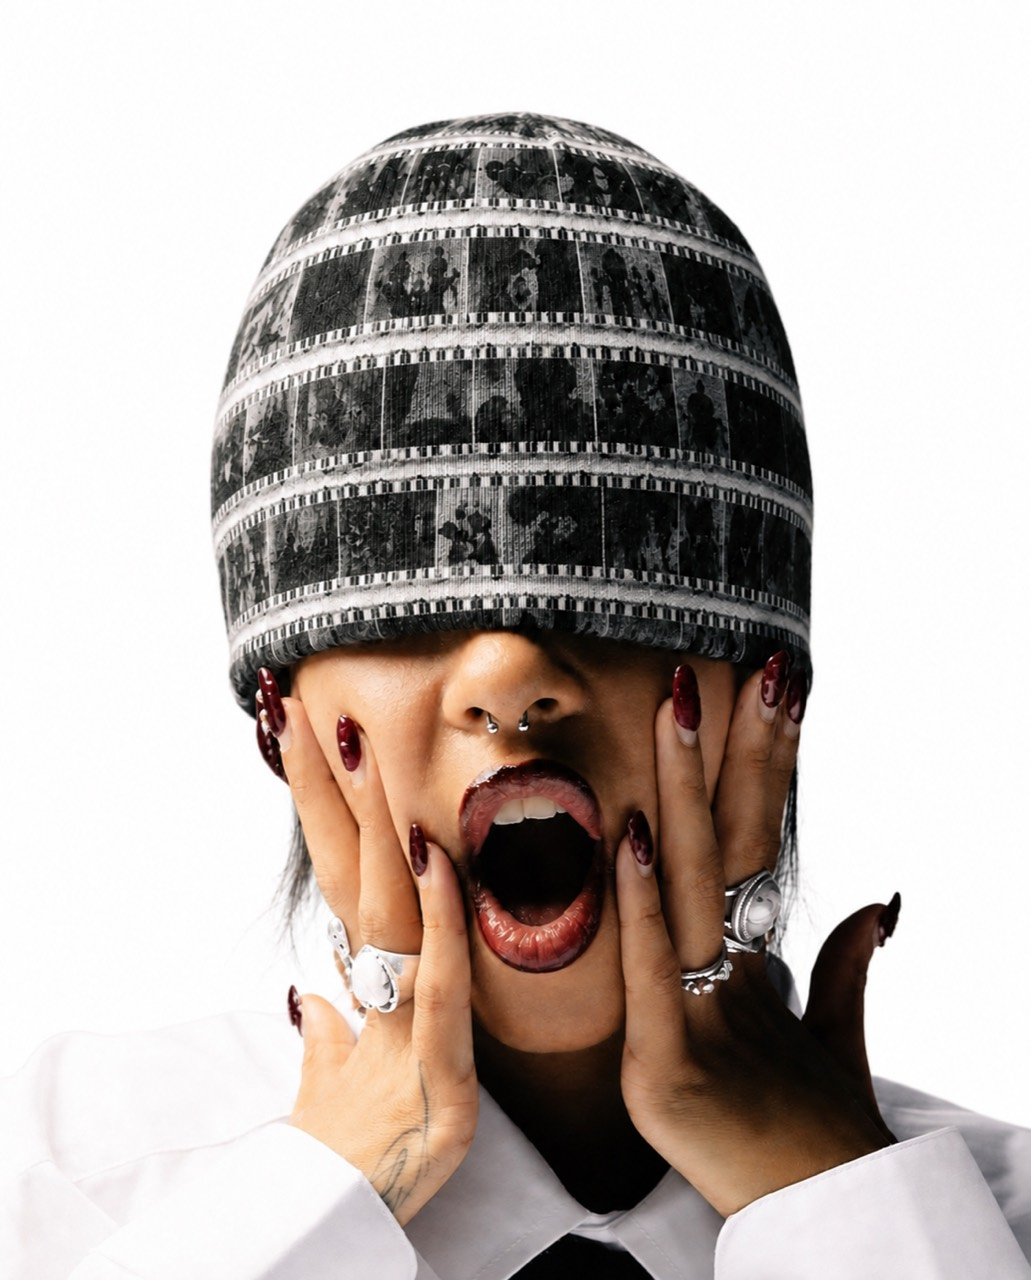
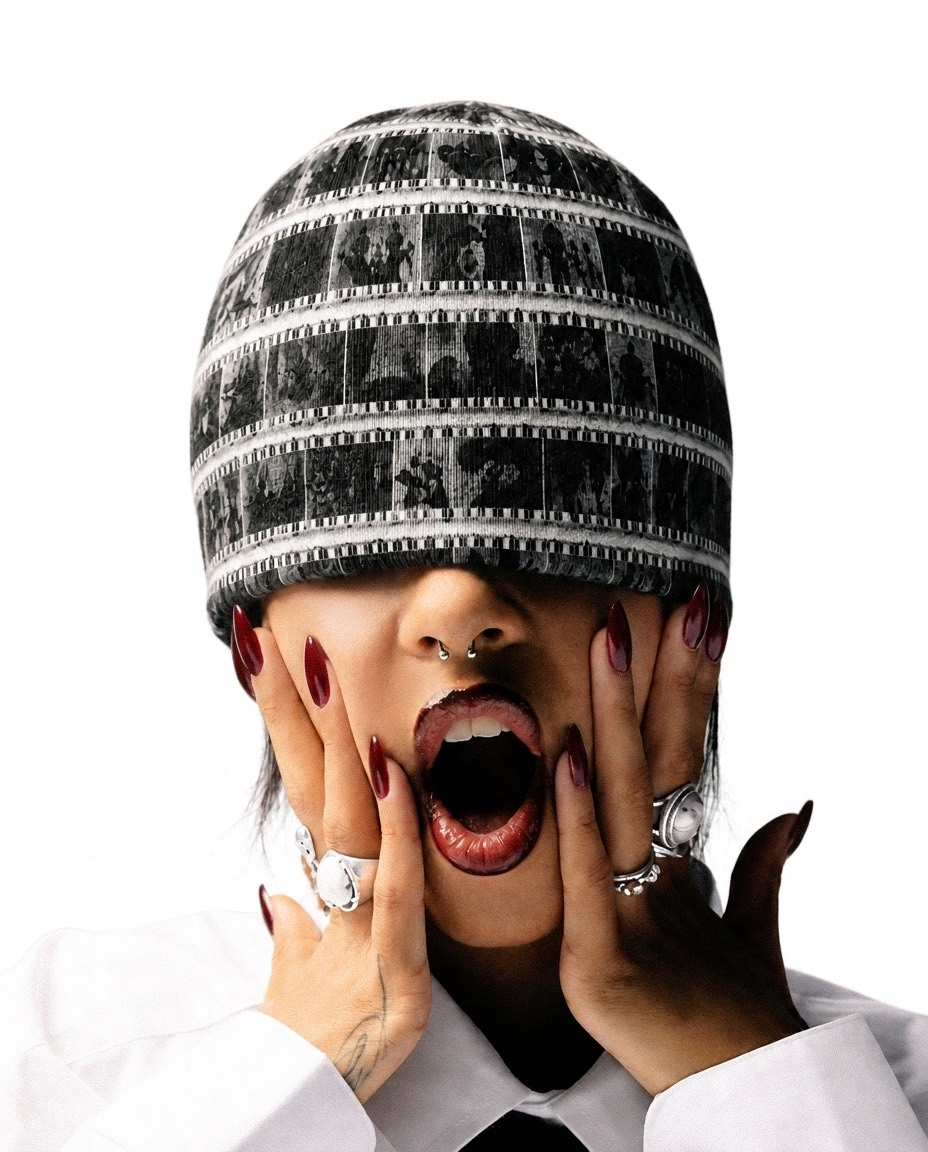
Upgrade shared Skull Cap campaign image

diff --git a/src/routes/projects.no-comply.media.tsx b/src/routes/projects.no-comply.media.tsx
@@ -22,13 +22,13 @@ import cof01 from "../assets/no-comply/caught-on-film/cof-01-trim.png.asset.json
 import cof02 from "../assets/no-comply/caught-on-film/cof-02.png.asset.json";
 import cof03 from "../assets/no-comply/caught-on-film/cof-03.png.asset.json";
 import cof04 from "../assets/no-comply/caught-on-film/cof-04.png.asset.json";
-import cof05 from "../assets/no-comply/caught-on-film/cof-05.png.asset.json";
 import cof06 from "../assets/no-comply/caught-on-film/cof-06.png.asset.json";
 import cof07 from "../assets/no-comply/caught-on-film/cof-07.png.asset.json";
 import cof08 from "../assets/no-comply/caught-on-film/cof-08.png.asset.json";
 import cof09 from "../assets/no-comply/caught-on-film/cof-09.png.asset.json";
 import cof10 from "../assets/no-comply/caught-on-film/cof-10.png.asset.json";
 import cof11 from "../assets/no-comply/caught-on-film/cof-11.png.asset.json";
+import onFilmSkullCapModel1 from "../assets/products/caught-on-film/on-film-skull-cap/black-white/model-1.jpg";
 import { EditorialPageShell } from "@/components/no-comply/editorial-page-shell";
 
 type MediaCollection = "command" | "caught-on-film";
@@ -100,7 +100,7 @@ const media: {
     collection: "caught-on-film",
   },
   {
-    src: cof05.url,
+    src: onFilmSkullCapModel1,
     alt: "Portrait in film-strip printed beanie pulled over the eyes",
     collection: "caught-on-film",
   },
